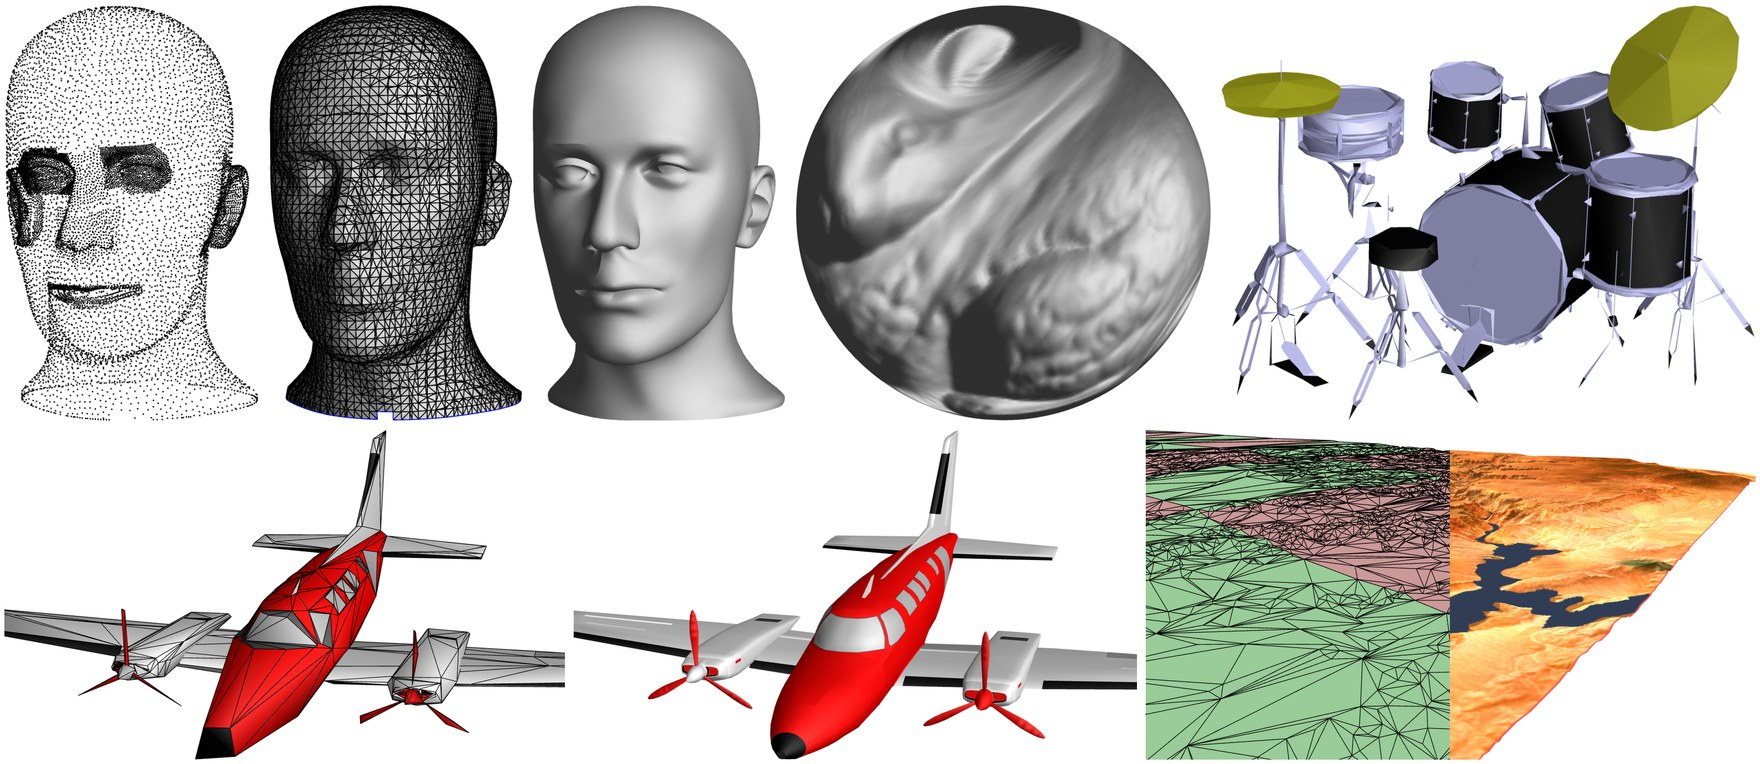
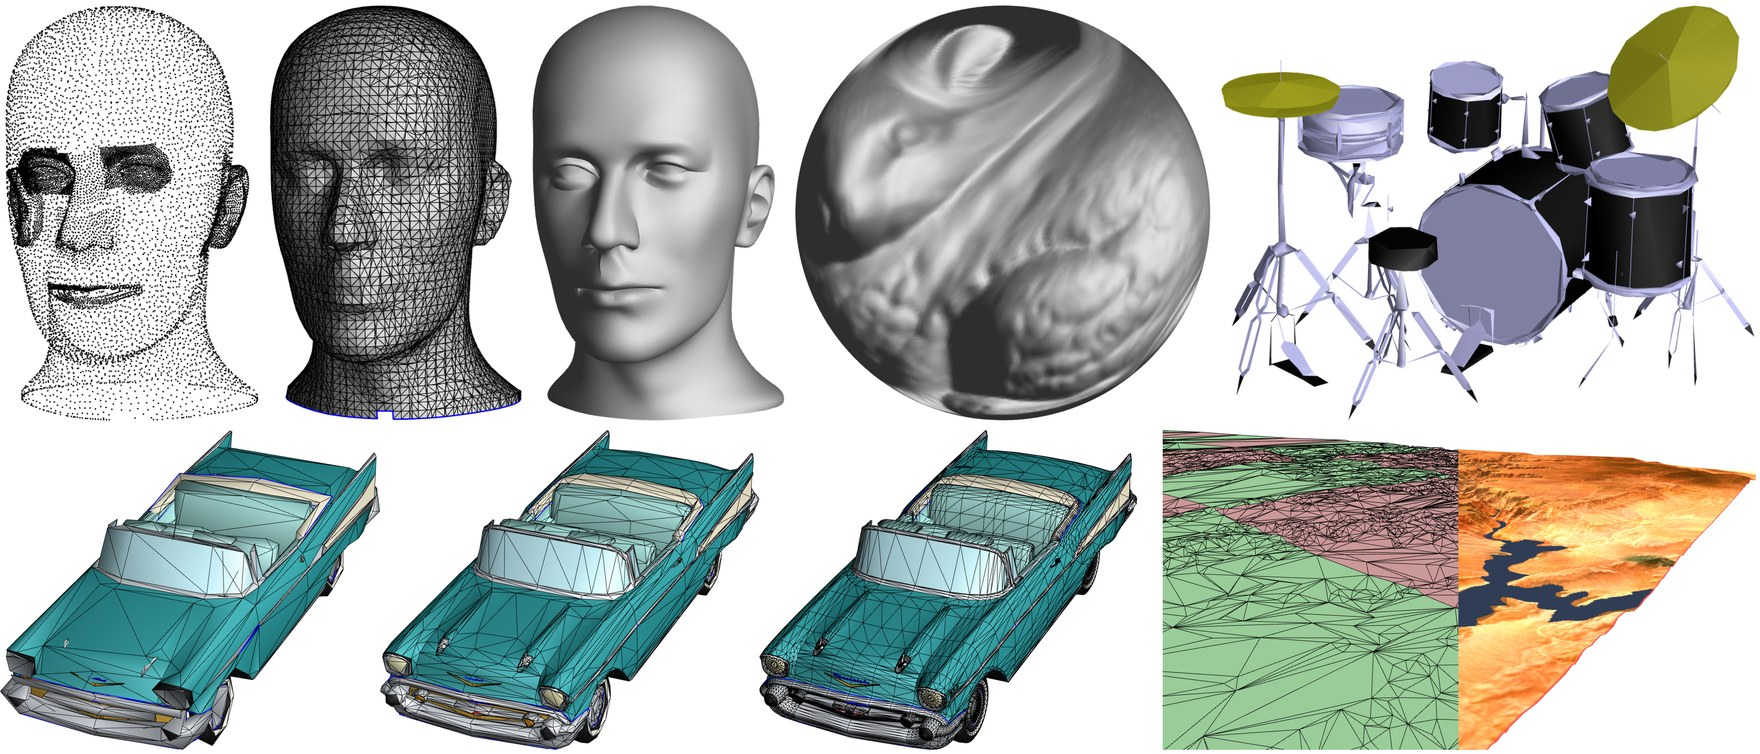
README: show the 57chevy in the overview and mesh figures
- Replace the cessna in the overview figure by the 57chevy at 1500, 5000, and full resolution, with the cars
  abutting and some space before the terrain.
- Replace the cessna in the progressive mesh figure of progs/README.md by the 57chevy at 1500, 3000, 6000, and
  full resolution.
- Update the alt text, caption, and image reference values; the macOS entries hold the Linux values until the
  nightly run provides its own.

diff --git a/progs/README.md b/progs/README.md
@@ -244,11 +244,11 @@ MeshDistance -mfile distcap.recon.m -mfile distcap.opt.m -bothdir 1 -maxerror 1 
 
 <picture>
   <source media="(prefers-color-scheme: dark)" srcset="../.github/images/progressive_mesh_dark.jpg">
-  <img src="../.github/images/progressive_mesh.jpg" alt="A progressive mesh of an airplane, at three of its continuous levels of detail.">
+  <img src="../.github/images/progressive_mesh.jpg" alt="A progressive mesh of a car, at four of its continuous levels of detail.">
 </picture>
 
-<em>A progressive mesh of an airplane, at three of its continuous levels of detail
-(800, 3000, and 13,546 faces).</em>
+<em>A progressive mesh of a car, at four of its continuous levels of detail
+(1500, 3000, 6000, and 29,282 faces).</em>
 
 Given a mesh, `MeshSimplify` applies a sequence of <em>edge collapse</em> operations
 to simplify it to a coarse <em>base mesh</em> while trying to best preserve the appearance of the original model.

diff --git a/README.md b/README.md
@@ -25,7 +25,7 @@ The source code has been updated to modern C++ style and for cross-platform use.
 
 <picture>
   <source media="(prefers-color-scheme: dark)" srcset=".github/images/overview_dark.jpg">
-  <img src=".github/images/overview.jpg" alt="Renderings of results: reconstruction of a mannequin head from points, a bunny parameterized on a sphere, a drum set approximated using simplices of mixed dimension, an airplane at two levels of detail, and a terrain shown with its mesh on the left half.">
+  <img src=".github/images/overview.jpg" alt="Renderings of results: reconstruction of a mannequin head from points, a bunny parameterized on a sphere, a drum set approximated using simplices of mixed dimension, a car at three levels of detail, and a terrain shown with its mesh on the left half.">
 </picture>
 
 <em>Results rendered by the viewer `G3dOGL`.
